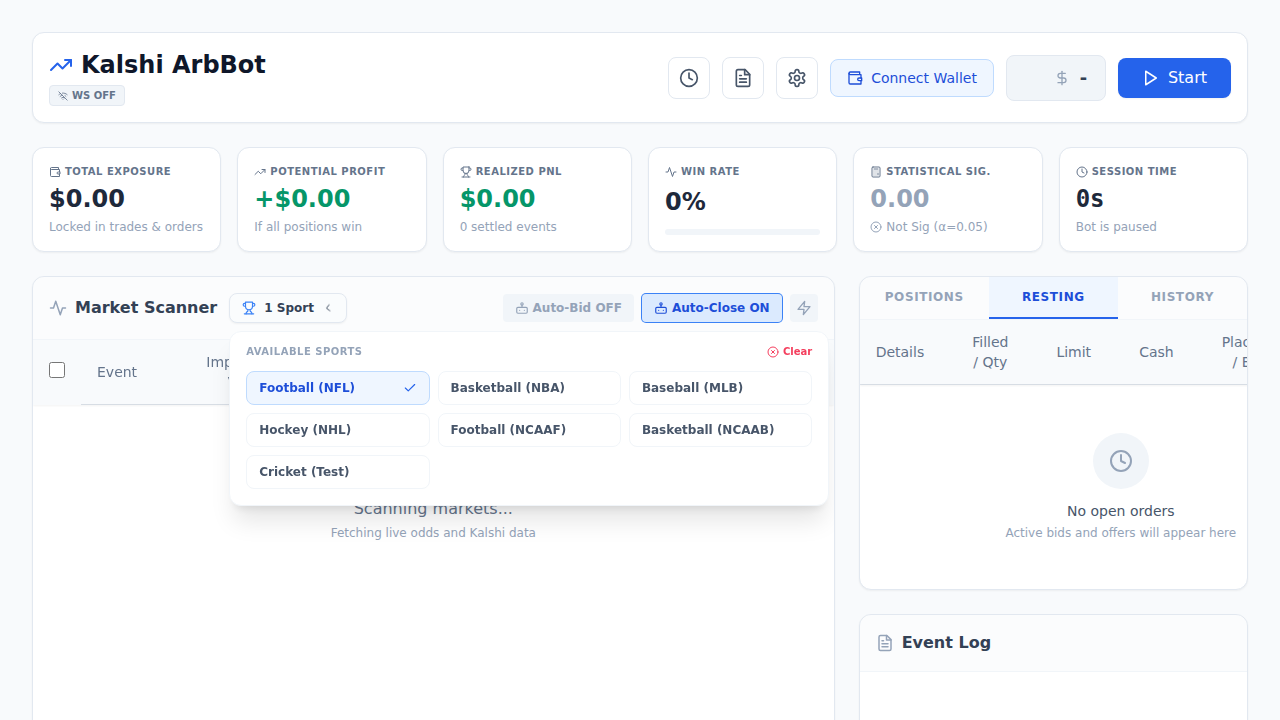
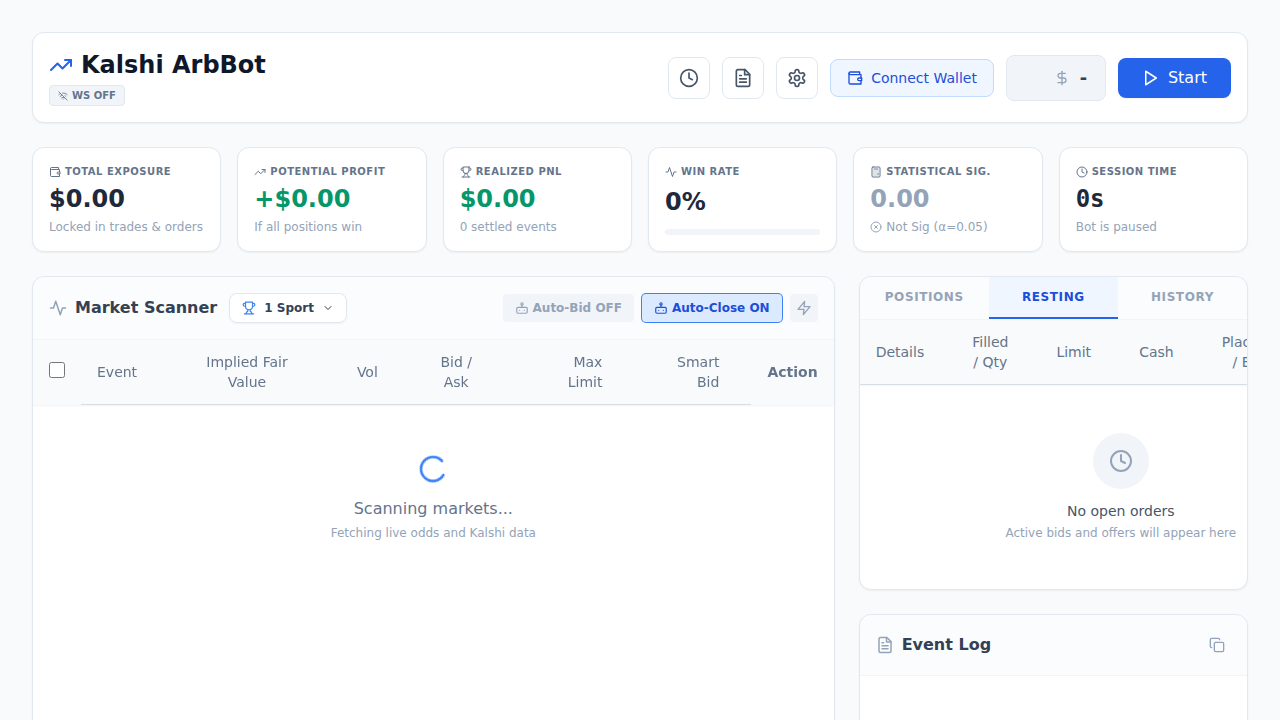
feat: Add 'Copy Logs' button to Event Log
- Added a copy-to-clipboard button in the Event Log header.
- Implemented visual feedback (Check icon) on successful copy.
- Added proper ARIA labels and `role="log"` for accessibility.
- Fixed accessibility regression test `tests/test_palette_accessibility.py` by resolving ambiguous selector.

diff --git a/kalshi-dashboard/src/App.jsx b/kalshi-dashboard/src/App.jsx
@@ -1,6 +1,6 @@
 // File: src/App.jsx
 import React, { useState, useEffect, useCallback, useRef, useMemo, useId } from 'react';
-import { Settings, Play, Pause, TrendingUp, DollarSign, AlertCircle, Briefcase, Activity, Trophy, Clock, Zap, Wallet, X, Check, Loader2, Hash, ArrowUp, ArrowDown, Calendar, XCircle, Bot, Wifi, WifiOff, Info, FileText, Droplets, Calculator, ChevronDown, Eye, EyeOff, Upload } from 'lucide-react';
+import { Settings, Play, Pause, TrendingUp, DollarSign, AlertCircle, Briefcase, Activity, Trophy, Clock, Zap, Wallet, X, Check, Loader2, Hash, ArrowUp, ArrowDown, Calendar, XCircle, Bot, Wifi, WifiOff, Info, FileText, Droplets, Calculator, ChevronDown, Eye, EyeOff, Upload, Copy } from 'lucide-react';
 import { SPORT_MAPPING, findKalshiMatch } from './utils/kalshiMatching';
 import {
     americanToProbability,
@@ -1634,6 +1634,8 @@ const PortfolioSection = ({ activeTab, positions, markets, tradeHistory, onAnaly
 
 const EventLog = ({ logs }) => {
     const scrollRef = useRef(null);
+    const [isCopied, setIsCopied] = useState(false);
+
     useEffect(() => {
         if (scrollRef.current) {
             const { scrollTop, scrollHeight, clientHeight } = scrollRef.current;
@@ -1644,12 +1646,28 @@ const EventLog = ({ logs }) => {
         }
     }, [logs]);
 
+    const handleCopyLogs = () => {
+        const text = logs.map(l => `[${new Date(l.timestamp).toLocaleTimeString()}] ${l.type}: ${l.message}`).join('\n');
+        navigator.clipboard.writeText(text).then(() => {
+            setIsCopied(true);
+            setTimeout(() => setIsCopied(false), 2000);
+        }).catch(err => console.error('Failed to copy logs:', err));
+    };
+
     return (
         <div className="bg-white rounded-xl shadow-sm border border-slate-200 overflow-hidden flex flex-col h-[300px]">
-             <div className="p-4 border-b border-slate-100 bg-slate-50/50">
+             <div className="p-4 border-b border-slate-100 bg-slate-50/50 flex justify-between items-center">
                 <h3 className="font-bold text-slate-700 flex items-center gap-2"><FileText size={18} className="text-slate-400"/> Event Log</h3>
+                <button
+                    onClick={handleCopyLogs}
+                    aria-label="Copy Logs"
+                    title="Copy logs to clipboard"
+                    className="p-1.5 text-slate-400 hover:text-blue-600 hover:bg-blue-50 rounded transition-all focus:outline-none focus:ring-2 focus:ring-blue-500"
+                >
+                    {isCopied ? <Check size={16} className="text-emerald-500"/> : <Copy size={16}/>}
+                </button>
             </div>
-            <div ref={scrollRef} className="overflow-y-auto p-4 space-y-2 flex-1 font-mono text-xs">
+            <div ref={scrollRef} className="overflow-y-auto p-4 space-y-2 flex-1 font-mono text-xs" role="log" aria-live="polite" aria-atomic="false">
                 {logs.length === 0 && <div className="text-slate-400 text-center italic mt-10">No events yet</div>}
                 {logs.map(log => (
                     <div key={log.id} className="flex gap-2 border-b border-slate-50 pb-1 last:border-0">

diff --git a/kalshi-dashboard/tests/test_palette_accessibility.py b/kalshi-dashboard/tests/test_palette_accessibility.py
@@ -46,7 +46,8 @@ def test_palette_accessibility_improvements(authenticated_page):
     expect(page.get_by_text("Bot Configuration")).to_be_visible()
 
     # Check Auto-Bid Margin
-    bid_margin_input = page.get_by_label("Auto-Bid Margin")
+    # Target the slider explicitly to avoid ambiguity with the number input
+    bid_margin_input = page.get_by_role("slider", name="Auto-Bid Margin")
     expect(bid_margin_input).to_be_visible()
 
     # Check for aria-describedby
@@ -60,14 +61,14 @@ def test_palette_accessibility_improvements(authenticated_page):
     expect(description_el).to_contain_text("Bot will bid")
 
     # Check Auto-Close Margin
-    close_margin_input = page.get_by_label("Auto-Close Margin")
+    close_margin_input = page.get_by_role("slider", name="Auto-Close Margin")
     expect(close_margin_input).to_have_attribute("aria-describedby", re.compile(r".+"))
 
     desc_id_2 = close_margin_input.get_attribute("aria-describedby")
     expect(page.locator(f'[id="{desc_id_2}"]')).to_contain_text("Bot will ask")
 
     # Check Min Fair Value
-    mfv_input = page.get_by_label("Minimum Fair Value")
+    mfv_input = page.get_by_role("slider", name="Min Fair Value")
     expect(mfv_input).to_have_attribute("aria-describedby", re.compile(r".+"))
 
     desc_id_3 = mfv_input.get_attribute("aria-describedby")

diff --git a/kalshi-dashboard/verification/verify_copy_logs_ui.py b/kalshi-dashboard/verification/verify_copy_logs_ui.py
@@ -1,0 +1,31 @@
+import pytest
+from playwright.sync_api import Page, expect
+
+@pytest.fixture(scope="function")
+def context(playwright):
+    browser = playwright.chromium.launch(headless=True, args=['--ignore-certificate-errors'])
+    context = browser.new_context(ignore_https_errors=True)
+    yield context
+    browser.close()
+
+def test_copy_logs_ui(page: Page):
+    # Enable ignore_https_errors
+    page.context.set_extra_http_headers({"Accept": "*/*"})
+
+    # Grant clipboard permissions
+    context = page.context
+    context.grant_permissions(['clipboard-read', 'clipboard-write'])
+
+    # Navigate to the dashboard
+    page.goto("https://localhost:3000")
+
+    # Wait for the Event Log to be visible
+    event_log = page.locator("text=Event Log")
+    expect(event_log).to_be_visible()
+
+    # Check for the Copy Logs button
+    copy_button = page.get_by_label("Copy Logs")
+    expect(copy_button).to_be_visible()
+
+    # Take a screenshot
+    page.screenshot(path="verification_screenshot.png")

diff --git a/.jules/palette.md b/.jules/palette.md
@@ -1,0 +1,5 @@
+# Palette's Journal
+
+## 2024-05-22 - Accessibility Selector Ambiguity
+**Learning:** `get_by_label` in Playwright can be ambiguous when a custom component has both a semantic `<label for="id">` and an internal element with `aria-label="Same Text"`.
+**Action:** Use `get_by_role("role", name="Label")` to target the specific interactive element (e.g., `slider`) instead of relying on the generic label association.
